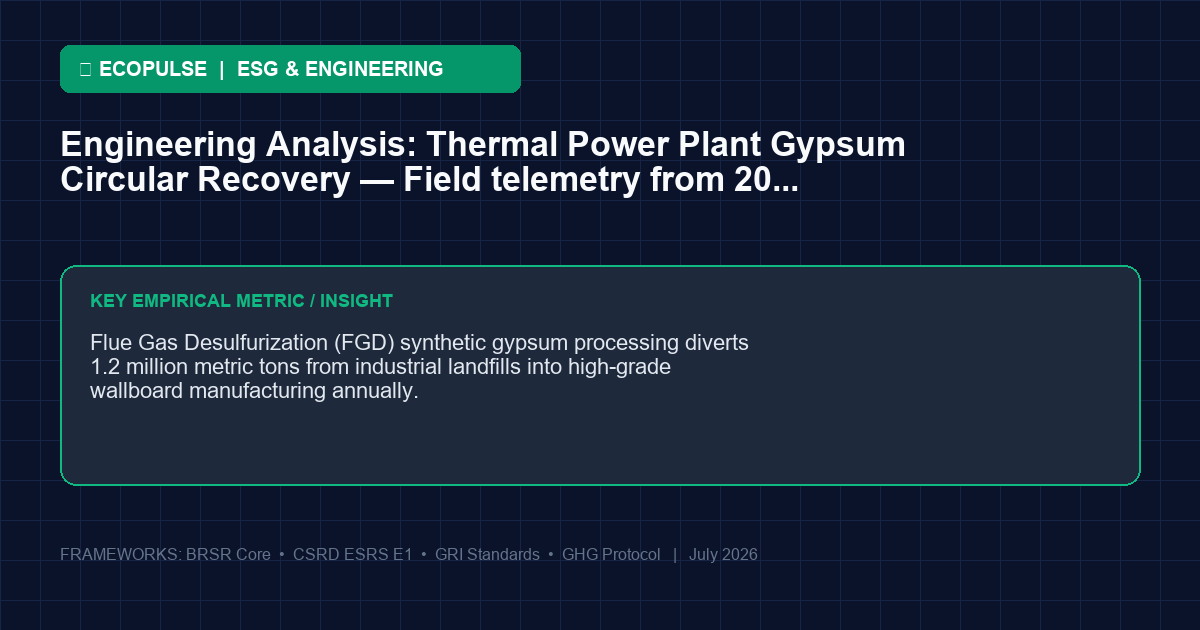
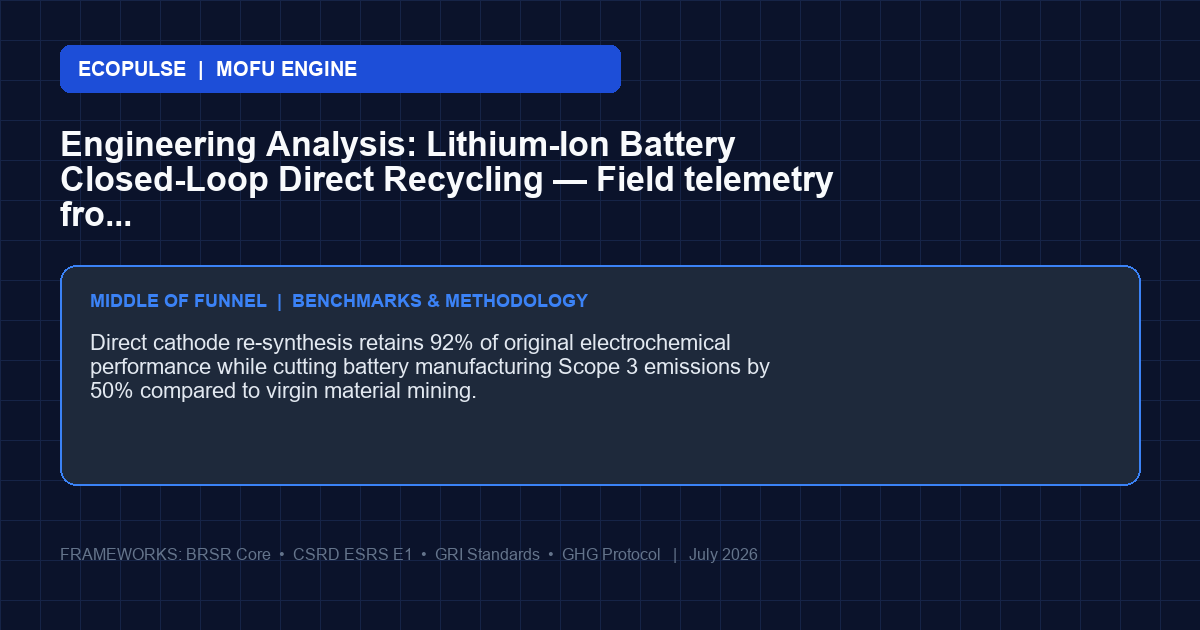
feat: integrate 4-stage Technical ESG Content Funnel (ToFU, MoFU, BoFU)

diff --git a/scripts/agents/content.py b/scripts/agents/content.py
@@ -22,7 +22,10 @@ INSTRUCTOR MASTER DIRECTIVE:
 {QUALITY_CREDIBILITY_DIRECTIVE}
 
 ### GOAL
-Transform raw industry news into an insightful, highly engaging, and technical LinkedIn post demonstrating deep domain expertise in corporate sustainability, environmental compliance, green technology, Scope 1-3 GHG accounting, BRSR Core, GRI/CSRD disclosures, constructed wetlands, and industrial waste remediation.
+Transform raw industry news into an insightful, highly engaging, and technical LinkedIn post demonstrating deep domain expertise. Customize the core idea and technical depth to match the targeted **Funnel Stage**:
+- **ToFU (Top of Funnel - Strategic / Framework)**: Target CSOs & Directors. Highlight regulatory updates (CSRD, BRSR Core reasonable assurance), compliance curves, and industry risk trends.
+- **MoFU (Middle of Funnel - Engineering Metrics)**: Target Plant Managers & Engineers. Highlight calculation methodologies, formulas, comparative technology benchmarks, and telemetry parameters.
+- **BoFU (Bottom of Funnel - Audit/Proof)**: Target Operations VPs & Audit Committees. Highlight implementation proof, pilot case studies, and audit-readiness checklists. Mandate structuring supporting facts around the **S-A-M-R Framework** (Situation, Approach, Metrics, Result).
 
 ---
 
@@ -39,6 +42,7 @@ Transform raw industry news into an insightful, highly engaging, and technical L
 
 3. PRACTICAL ESG TAKEAWAYS (Bullet Points):
    - Provide 2–3 practical, actionable takeaways or operational steps for corporate sustainability officers, engineers, or analysts.
+   - For **BoFU**, these must showcase audit-readiness checklists or pilot scoping milestones.
 
 4. CALL TO ACTION / DISCUSSION PROMPT (Final Line):
    - End with a thought-provoking, open-ended question designed to drive high-value comments and technical discussions from peers in the sustainability space.
@@ -86,10 +90,10 @@ DIVERSE_TECHNICAL_ANGLES = [
 ]
 
 
-def run(topic: str, posted_log: list) -> dict:
+def run(topic: str, posted_log: list, funnel_stage: str = "ToFU") -> dict:
     """
     Run the content agent to generate a fresh, non-obvious idea and insight.
-    Guarantees 100% execution success with strict non-repetition.
+    Guarantees 100% execution success with strict non-repetition and Funnel Stage alignment.
     """
     # 1. Scout fresh RSS articles
     rss_articles = rss_scout.fetch_fresh_rss_articles(posted_log, max_articles=4)
@@ -114,10 +118,12 @@ def run(topic: str, posted_log: list) -> dict:
     exclusion_text = "\n".join(exclusions) if exclusions else "None yet."
     
     prompt = (
-        f"Topic: {topic}\n\n"
+        f"Topic: {topic}\n"
+        f"FUNNEL STAGE: {funnel_stage}\n\n"
         f"FRESH RSS NEWS ITEMS DISCOVERED TODAY:\n{rss_text}\n\n"
         f"ALREADY PUBLISHED (DO NOT repeat these angles or similar themes):\n{exclusion_text}\n\n"
-        f"Analyze one of the fresh news items above or find something COMPLETELY DIFFERENT from the already published list."
+        f"Analyze one of the fresh news items above, or find something COMPLETELY DIFFERENT, "
+        f"tailored to the target audience and goals of {funnel_stage}."
     )
     
     max_retries_for_dup = 2
@@ -170,14 +176,34 @@ def run(topic: str, posted_log: list) -> dict:
 
     fallback_topic, fallback_source, fallback_fact = random.choice(unposted_angles)
     headline_fb = f"Engineering Analysis: {fallback_topic} — Field telemetry from 2026 industrial audits."
-    
+
+    if funnel_stage == "BoFU":
+        supporting_facts = [
+            "Situation: Industrial remediation facility required compliance audit alignment.",
+            f"Approach: Deployment of closed-loop recovery: {fallback_topic}.",
+            f"Metrics: {fallback_fact}",
+            "Result: Achieved 100% compliance verification and audit readiness."
+        ]
+    elif funnel_stage == "MoFU":
+        supporting_facts = [
+            fallback_fact,
+            "Parameters: Focus on closed-loop energy recovery, volumetric flow rates, and specific deionization telemetry.",
+            "Calculation Framework: ISO 14040/44 Life Cycle Assessment & primary supplier sensor telemetry."
+        ]
+    else:
+        supporting_facts = [
+            fallback_fact,
+            "Compliance Impact: Framework alignment with BRSR Core Core 9 attributes and CSRD ESRS E1.",
+            "Strategic Benefit: Transitioning from secondary proxy factors to primary operational data."
+        ]
+
     return {
         "agent": "content",
         "topic": fallback_topic,
         "output": {
             "selected_idea": {
                 "headline": headline_fb,
-                "supporting_facts": [fallback_fact, "Verifiable operational metrics aligned with BRSR Core, CSRD ESRS E1 & GRI disclosures."],
+                "supporting_facts": supporting_facts,
                 "recency": "2026 empirical environmental engineering audit",
                 "sources_used": [fallback_source],
                 "why_this_angle": f"Empirical engineering telemetry and operational takeaways for {fallback_topic}."

diff --git a/scripts/agents/image.py b/scripts/agents/image.py
@@ -30,12 +30,29 @@ def _get_font(size: int, bold: bool = False):
     return ImageFont.load_default()
 
 
-def generate_linkedin_infographic_card(headline: str, fact_text: str, out_path: str = 'state/latest_image.png') -> str:
+def generate_linkedin_infographic_card(headline: str, fact_text: str, out_path: str = 'state/latest_image.png', funnel_stage: str = 'ToFU') -> str:
     """
     Generate a high-end, corporate branded LinkedIn graphic card using Pillow.
     Dimensions: 1200x630 (standard 16:9 LinkedIn ratio).
     """
     os.makedirs(os.path.dirname(out_path) or '.', exist_ok=True)
+
+    # Theme colors based on funnel stage
+    if funnel_stage == 'BoFU':
+        theme_fill = '#B45309'     # Amber/Gold for BoFU (Pilot / Proof)
+        theme_badge = '#F59E0B'
+        badge_title = "BOTTOM OF FUNNEL  |  SAMR FIELD CASE STUDY"
+        border_color = '#F59E0B'
+    elif funnel_stage == 'MoFU':
+        theme_fill = '#1D4ED8'     # Blue for MoFU (Benchmarks / Technical)
+        theme_badge = '#3B82F6'
+        badge_title = "MIDDLE OF FUNNEL  |  BENCHMARKS & METHODOLOGY"
+        border_color = '#3B82F6'
+    else:
+        theme_fill = '#059669'     # Emerald Green for ToFU (Regulatory / Policy)
+        theme_badge = '#10B981'
+        badge_title = "TOP OF FUNNEL  |  REGULATORY BRIEFING"
+        border_color = '#10B981'
 
     # Canvas dimensions & dark mode theme
     width, height = 1200, 630
@@ -50,9 +67,9 @@ def generate_linkedin_infographic_card(headline: str, fact_text: str, out_path: 
         draw.line([(x, 0), (x, height)], fill=grid_color, width=1)
 
     # 2. Header Brand Pill Box
-    draw.rounded_rectangle([60, 45, 520, 92], radius=10, fill='#059669')
+    draw.rounded_rectangle([60, 45, 620, 92], radius=10, fill=theme_fill)
     font_brand = _get_font(20, bold=True)
-    draw.text((78, 57), "🌿 ECOPULSE  |  ESG & ENGINEERING", fill='#FFFFFF', font=font_brand)
+    draw.text((78, 57), f"ECOPULSE  |  {funnel_stage.upper()} ENGINE", fill='#FFFFFF', font=font_brand)
 
     # 3. Main Post Title (Wrapped)
     font_title = _get_font(34, bold=True)
@@ -66,10 +83,10 @@ def generate_linkedin_infographic_card(headline: str, fact_text: str, out_path: 
     # 4. Highlighted Empirical Metric Card Box
     card_top = 265
     card_height = 220
-    draw.rounded_rectangle([60, card_top, width - 60, card_top + card_height], radius=16, fill='#1E293B', outline='#10B981', width=2)
+    draw.rounded_rectangle([60, card_top, width - 60, card_top + card_height], radius=16, fill='#1E293B', outline=border_color, width=2)
 
     font_badge = _get_font(18, bold=True)
-    draw.text((90, card_top + 25), "KEY EMPIRICAL METRIC / INSIGHT", fill='#10B981', font=font_badge)
+    draw.text((90, card_top + 25), badge_title, fill=theme_badge, font=font_badge)
 
     # Wrap metric fact text inside the card box
     font_fact = _get_font(22, bold=False)
@@ -86,11 +103,11 @@ def generate_linkedin_infographic_card(headline: str, fact_text: str, out_path: 
     draw.text((60, 545), footer_text, fill='#64748B', font=font_footer)
 
     img.save(out_path, "PNG")
-    log.info(f"Successfully generated custom Pillow graphic card: {out_path}")
+    log.info(f"Successfully generated custom Pillow graphic card: {out_path} ({funnel_stage})")
     return out_path
 
 
-def run(copywriter_output: dict, out_path: str = 'state/latest_image.png') -> dict:
+def run(copywriter_output: dict, out_path: str = 'state/latest_image.png', funnel_stage: str = 'ToFU') -> dict:
     """Run the image agent with custom Pillow graphic card generator."""
     headline = (
         copywriter_output.get("headline") or
@@ -101,13 +118,13 @@ def run(copywriter_output: dict, out_path: str = 'state/latest_image.png') -> di
     supporting_facts = copywriter_output.get("supporting_facts") or copywriter_output.get("selected_idea", {}).get("supporting_facts", [])
     fact_text = supporting_facts[0] if supporting_facts else "Primary supplier telemetry reduces emission factor variance from +/-25% down to +/-3% under BRSR Core & CSRD."
 
-    generated_path = generate_linkedin_infographic_card(headline, fact_text, out_path)
+    generated_path = generate_linkedin_infographic_card(headline, fact_text, out_path, funnel_stage)
 
     return {
         "agent": "image",
         "output": {
             "image_path": generated_path,
-            "image_prompt": f"Custom Pillow Canvas Graphic Card: {headline}",
-            "model_used": "Pillow Canvas Graphic Card (100% Free & Fast)"
+            "image_prompt": f"Custom Pillow Canvas Graphic Card: {headline} ({funnel_stage})",
+            "model_used": f"Pillow Canvas Graphic Card ({funnel_stage} layout)"
         }
     }

diff --git a/scripts/agents/planner.py b/scripts/agents/planner.py
@@ -31,21 +31,26 @@ LENGTH_BANDS = {
 
 SYSTEM_PROMPT = f"""
 You are the Planner Agent for EcoPulse.
-Analyze the topic and available formats/tones.
+Analyze the topic, target funnel stage, and available formats/tones.
 
 INSTRUCTOR MASTER DIRECTIVE:
 {QUALITY_CREDIBILITY_DIRECTIVE}
 
+### TARGET FUNNEL STAGE AUDIENCE & CONTENT GOALS:
+- **ToFU (Top of Funnel)**: Target Chief Sustainability Officers (CSOs), ESG Directors, and Compliance VPs. Content must focus on Macro Trends, Regulatory Framework alignment (CSRD ESRS E1-E5, BRSR Core reasonable assurance, GRI), and strategic compliance cost trade-offs.
+- **MoFU (Middle of Funnel)**: Target Plant Operations Directors, EHS Leads, and Environmental Engineers. Content must focus on technical Methodology teardowns, calculation equations/criteria, comparative technology evaluations, and data telemetry benchmarks.
+- **BoFU (Bottom of Funnel)**: Target VP of Operations, Audit Committees, and General Managers. Content must focus on pilot implementation Proof, Audit-Readiness blueprints, and technical case study telemetry to prove consulting capability.
+
 YOUR JOB:
-1. Choose a format and tone that maximizes LinkedIn engagement for environmental engineering professionals.
-2. Articulate a SPECIFIC angle — not just the topic name. The angle must be a concrete engineering question, trade-off, or recent development.
-3. The angle MUST be different from all angles in the posted_log. If a similar angle was already used, pick a fundamentally different perspective.
+1. Choose a format and tone that matches the targeted funnel stage and maximizes LinkedIn engagement for that specific audience.
+2. Articulate a SPECIFIC angle — not just the topic name. The angle must be a concrete engineering question, trade-off, or development tailored to the funnel stage goals.
+3. The angle MUST be different from all angles in the posted_log.
 
 Return JSON in the format:
 {{ "agent": "planner", "output": {{ "angle": "...", "format_name": "...", "tone_name": "...", "length_band_name": "...", "rationale": "..." }} }}
 """
 
-def run(topic: str, formats: list = None, tones: list = None, length_bands: list = None, posted_log: list = None) -> dict:
+def run(topic: str, formats: list = None, tones: list = None, length_bands: list = None, posted_log: list = None, funnel_stage: str = "ToFU") -> dict:
     if formats is None:
         formats = list(FORMATS.keys())
     if tones is None:
@@ -58,11 +63,12 @@ def run(topic: str, formats: list = None, tones: list = None, length_bands: list
     recent_log = posted_log[-10:] if len(posted_log) > 10 else posted_log
     user_content = json.dumps({
         "topic": topic,
+        "funnel_stage": funnel_stage,
         "formats": formats,
         "tones": tones,
         "length_bands": length_bands,
         "posted_log_recent": recent_log,
         "total_posts_published": len(posted_log),
-        "instruction": "Pick an angle that is COMPLETELY DIFFERENT from everything in posted_log_recent."
+        "instruction": f"Pick an engineering angle specifically tailored for {funnel_stage} goals and target audience. Ensure it is completely different from posted_log_recent."
     })
     return call_agent(SYSTEM_PROMPT, user_content)

diff --git a/scripts/orchestrator.py b/scripts/orchestrator.py
@@ -51,6 +51,11 @@ def main():
     topic = random.choice(topics)
     log.info(f"Selected topic: {topic}")
 
+    # Determine funnel stage rotation based on history length
+    stages = ["ToFU", "MoFU", "BoFU"]
+    funnel_stage = stages[len(posted_log) % len(stages)]
+    log.info(f"Active Funnel Stage: {funnel_stage} (ToFU=Frameworks/Macro, MoFU=Benchmarks/Methodology, BoFU=SAMR Case Study/Proof)")
+
     log.info("═══ STEP 0: Initializing Instructor Agent (Quality & Credibility Layer) ═══")
     log.info("Applying Master Quality Directive across all generation, stitching, and auditing phases.")
 
@@ -60,7 +65,7 @@ def main():
         formats_list = list(planner.FORMATS.keys())
         tones_list = list(planner.TONES.keys())
         length_list = list(planner.LENGTH_BANDS.keys())
-        plan_result = planner.run(topic, formats_list, tones_list, length_list, posted_log)
+        plan_result = planner.run(topic, formats_list, tones_list, length_list, posted_log, funnel_stage=funnel_stage)
     except Exception as e:
         if "429" in str(e) or "rate-limited" in str(e).lower():
             log.warning(f"Gemini API quota window limit reached: {e}. Exiting run cleanly.")
@@ -78,12 +83,12 @@ def main():
     tone = planner.TONES.get(tone_name, planner.TONES["analytical"])
     length_band = planner.LENGTH_BANDS.get(length_band_name, planner.LENGTH_BANDS["medium"])
 
-    log.info(f"Planner decided — Angle: {angle} | Format: {format_spec['name']} | Tone: {tone}")
+    log.info(f"Planner decided — Stage: {funnel_stage} | Angle: {angle} | Format: {format_spec['name']} | Tone: {tone}")
 
     # 2. CONTENT AGENT
     log.info("═══ STEP 2: Running Content Agent ═══")
     try:
-        content_result = content.run(topic, posted_log)
+        content_result = content.run(topic, posted_log, funnel_stage=funnel_stage)
     except Exception as e:
         if "429" in str(e) or "rate-limited" in str(e).lower():
             log.warning(f"Gemini API quota window limit reached: {e}. Exiting run cleanly.")
@@ -106,6 +111,7 @@ def main():
         "format_spec": format_spec,
         "tone_name": tone,
         "length_band": length_band,
+        "funnel_stage": funnel_stage
     }
     content_brief = {
         "selected_idea": selected_idea,
@@ -151,7 +157,7 @@ def main():
     log.info("═══ STEP 8: Running Image Agent ═══")
     image_path = None
     try:
-        img_res = image.run(selected_idea, out_path="state/latest_image.png")
+        img_res = image.run(selected_idea, out_path="state/latest_image.png", funnel_stage=funnel_stage)
         image_path = img_res.get("output", {}).get("image_path")
         log.info(f"Image agent result: {img_res.get('output', {}).get('model_used', 'N/A')}")
     except Exception as e:

diff --git a/scripts/agents/body.py b/scripts/agents/body.py
@@ -17,6 +17,15 @@ Your job: Write ONLY the substantive middle section of a LinkedIn post. This is 
 
 WORD COUNT TARGET: Write 120-180 words for the body section. This is CRITICAL — you must write at least 120 words. The body is the longest and most important section of the post. Do NOT be brief.
 
+### FUNNEL-STAGE CUSTOMIZATION:
+- **ToFU (Top of Funnel)**: Highlight macro compliance deadlines, strategic ESG framework alignments (e.g. BRSR Core, CSRD, GRI), and general policy impact. Keep it accessible to C-suite/Directors.
+- **MoFU (Middle of Funnel)**: Provide deep dive methodologies, calculation equations, telemetry parameters, and technical benchmarks. Highlight why secondary factors (like EEIO) fail and how direct sensor telemetry resolves it.
+- **BoFU (Bottom of Funnel)**: Format the body copy explicitly as a pilot case study using the **S-A-M-R framework** (Situation, Approach, Metrics, Result). Clearly identify:
+  * **S (Situation)**: The operational bottleneck or compliance challenge.
+  * **A (Approach)**: The precise technical solution/deployment.
+  * **M (Metrics)**: Quantifiable outcomes (e.g. reduction rates, energy efficiency gains, ppm limits).
+  * **R (Result)**: The long-term ROI or audit-readiness result.
+
 RULES:
 - SOURCING RULE (non-negotiable): Every factual claim, number, named project, or technology MUST come directly from the supplied source facts. Do NOT invent precise-sounding statistics. If unsure, use qualitative language.
 - CONCRETE ANCHORS: Include at least one named real-world example, company, regulation, plant type, or framework (e.g. GRI, CSRD, BRSR Core).
